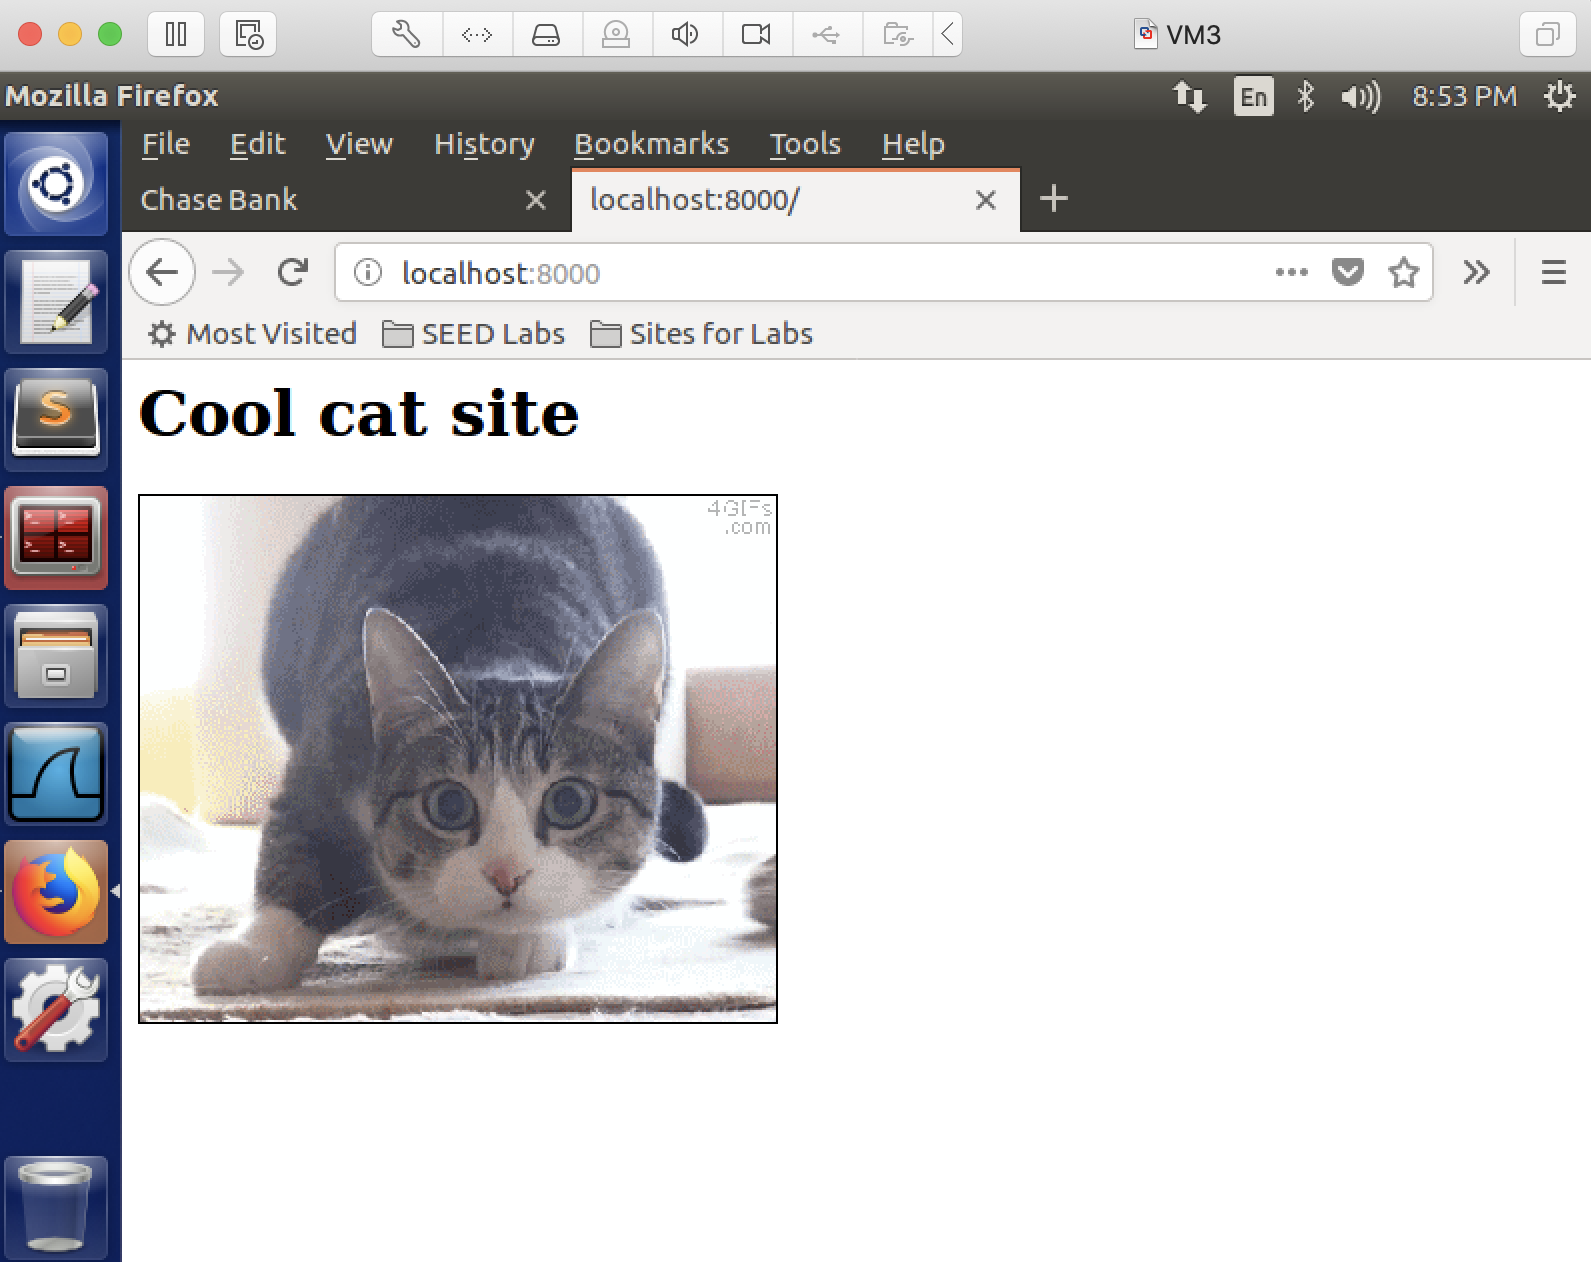
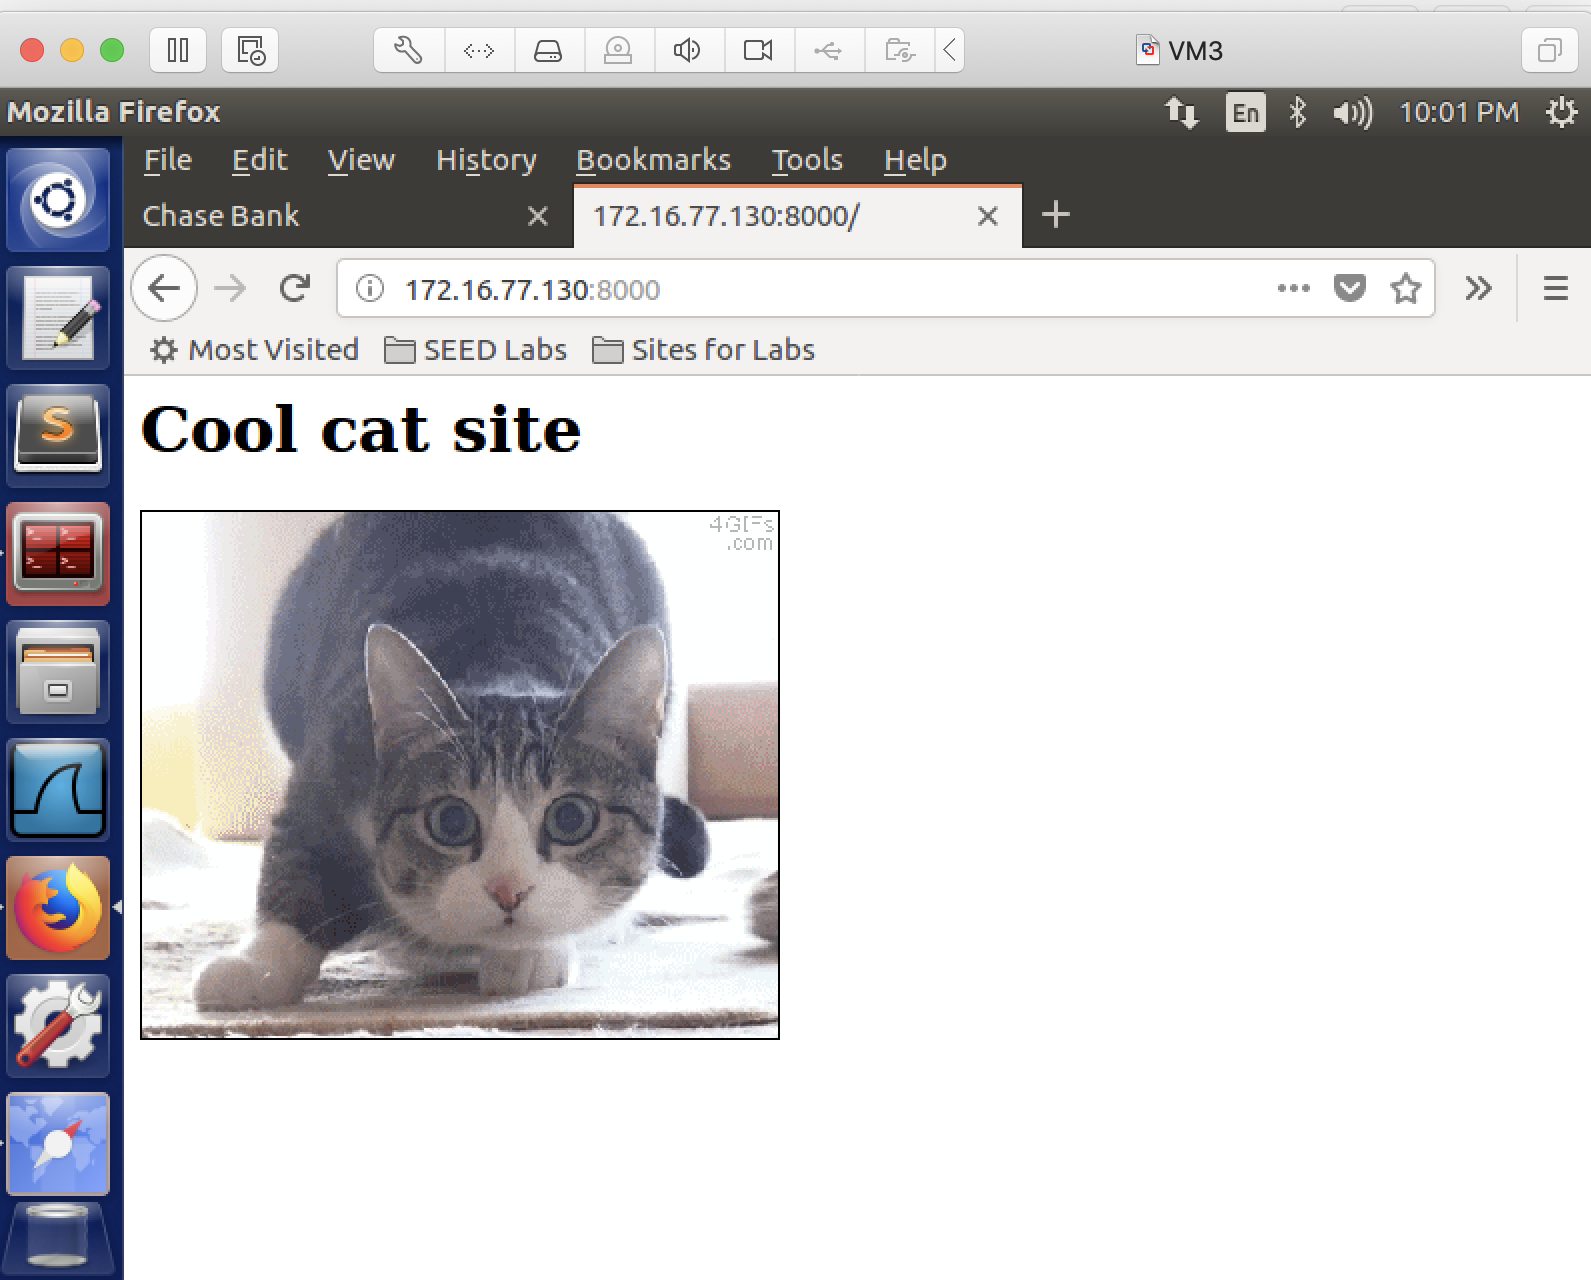
updating pictures and readme

Changed region(s): [[0.0, 0.0, 1.0, 1.0], [0.308, 0.6799, 0.3388, 0.7108]]

diff --git a/labs/csrf/README.md b/labs/csrf/README.md
@@ -20,36 +20,48 @@ Only one VM is sufficient.
 [04/27/22]seed@VM:~$ npm install body-parser
 ```
 
-2. set up the banking directoy and start the banking webserver:
+2. set up the banking directoy:
 
 ```console
 [04/27/22]seed@VM:~$ mkdir banking
 [04/27/22]seed@VM:~$ cd banking/
-[04/27/22]seed@VM:~/banking$ wget http://cs.boisestate.edu/~jxiao/gencyber2021/index.html.orig
-[04/27/22]seed@VM:~/banking$ wget http://cs.boisestate.edu/~jxiao/gencyber2021/server4.js
+[04/27/22]seed@VM:~/banking$ wget http://cs.boisestate.edu/~jxiao/cs333/info/banking/index.html.orig
+[04/27/22]seed@VM:~/banking$ wget http://cs.boisestate.edu/~jxiao/cs333/info/banking/server4.js
+```
+
+- edit server4.js: find the word "localhost" and change "localhost" to your VM's IP address.
+
+- start the banking webserver:
+```console
 [04/27/22]seed@VM:~/banking$ mv index.html.orig index.html
 [04/27/22]seed@VM:~/banking$ node server4.js
 ```
 
-3. access the website from the browser: type localhost:4000, you should see this:
+3. access the website from the browser: type localhost:4000 (replace localhost with your VM's IP address), you should see this:
 
 ![alt text](lab-csrf-banking-site.png "Lab csrf banking")
 
 4. login as jessica, username: jessica, password: 50505. You should see that Jessica's account balance at this moment is $10,000.
 
-5. set up the attacker directory and start the attacker web server:
+5. set up the attacker directory:
 
 ```console
 [04/27/22]seed@VM:~$ mkdir attacker
 [04/27/22]seed@VM:~$ cd attacker/
-[04/27/22]seed@VM:~/attacker$ wget http://cs.boisestate.edu/~jxiao/gencyber2021/attacker/index.html.orig
-[04/27/22]seed@VM:~/attacker$ wget http://cs.boisestate.edu/~jxiao/gencyber2021/attacker/cat.gif
-[04/27/22]seed@VM:~/attacker$ wget http://cs.boisestate.edu/~jxiao/gencyber2021/attacker/attacker-frame.html
+[04/27/22]seed@VM:~/attacker$ wget http://cs.boisestate.edu/~jxiao/cs333/info/attacker/index.html.orig
+[04/27/22]seed@VM:~/attacker$ wget http://cs.boisestate.edu/~jxiao/cs333/info/attacker/cat.gif
+[04/27/22]seed@VM:~/attacker$ wget http://cs.boisestate.edu/~jxiao/cs333/info/attacker/attacker-frame.html
+```
+
+- edit attacker-frame.html: find the word "localhost" and change "localhost" to your VM's IP address.
+
+- start the attacker web server:
+```console
 [04/27/22]seed@VM:~/attacker$ mv index.html.orig index.html
 [04/27/22]seed@VM:~/attacker$ python -m SimpleHTTPServer 8000
 ```
 
-6. access the website from the browser: open a new tab (make sure the banking site tab is still open), type localhost:8000, you should see this:
+6. access the website from the browser: open a new tab (make sure the banking site tab is still open), type localhost:8000 (replace localhost with your VM's IP address), you should see this:
 
 ![alt text](lab-csrf-attacker-site.png "Lab csrf attacker")
 
